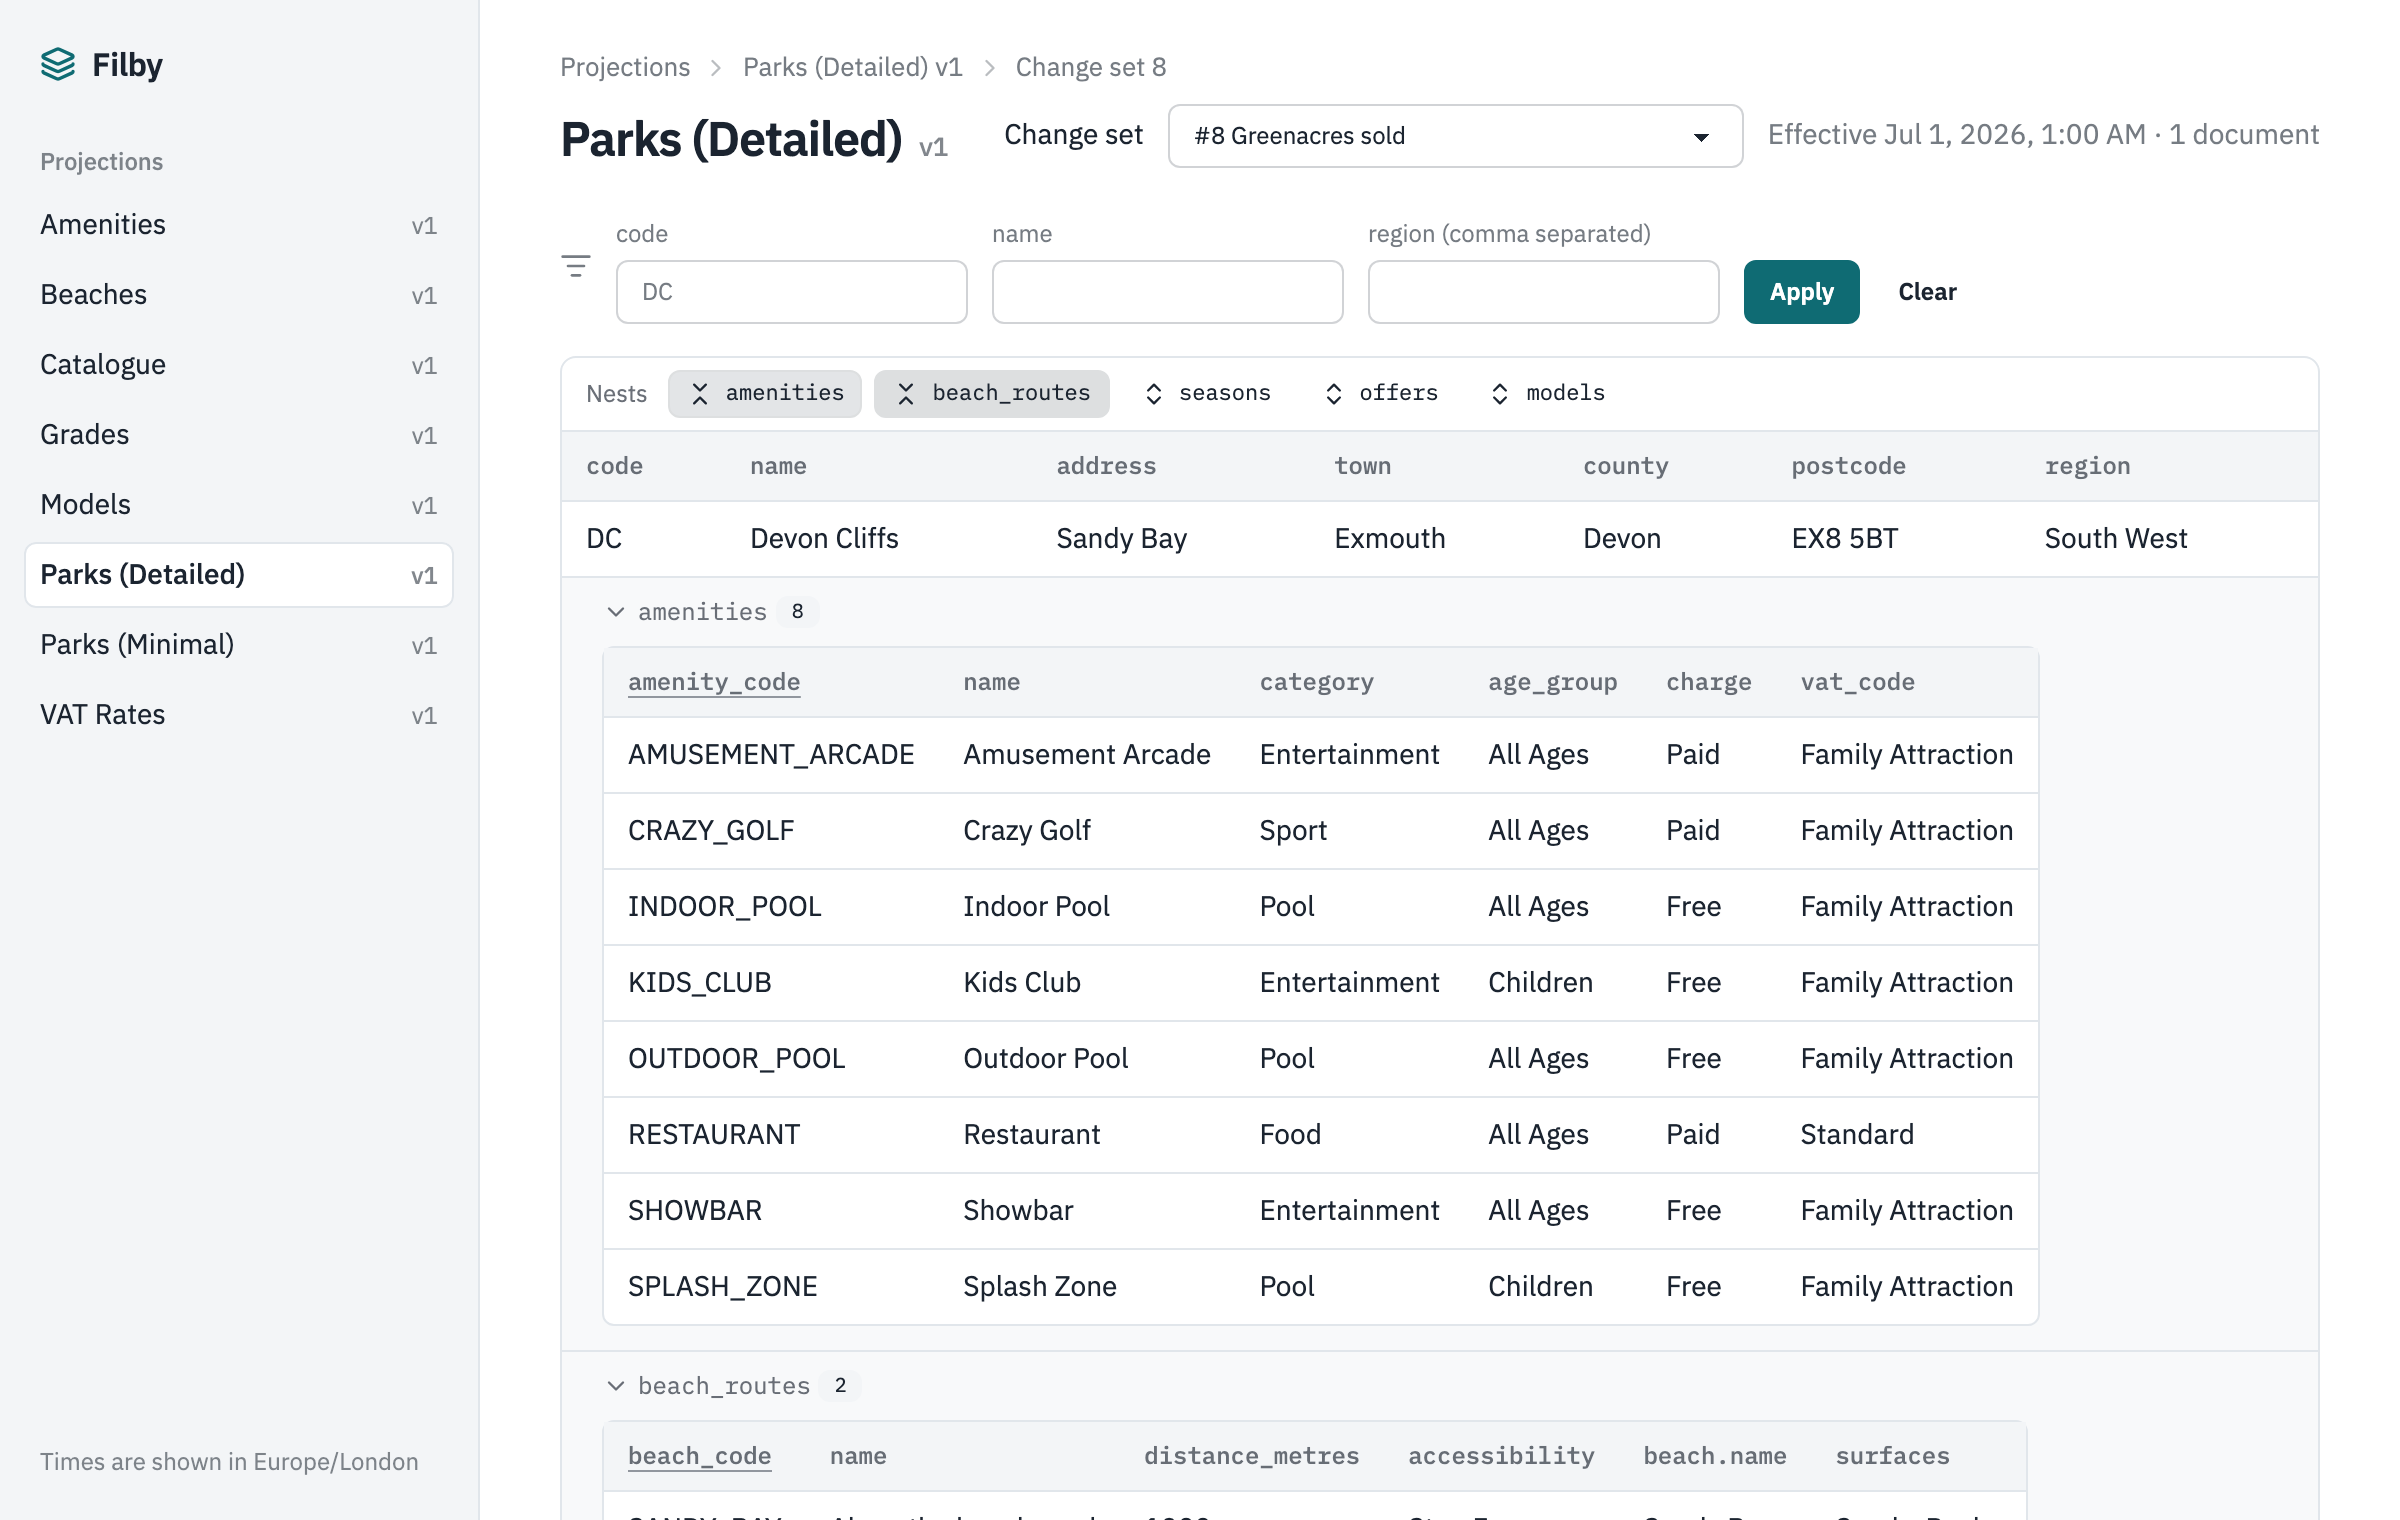
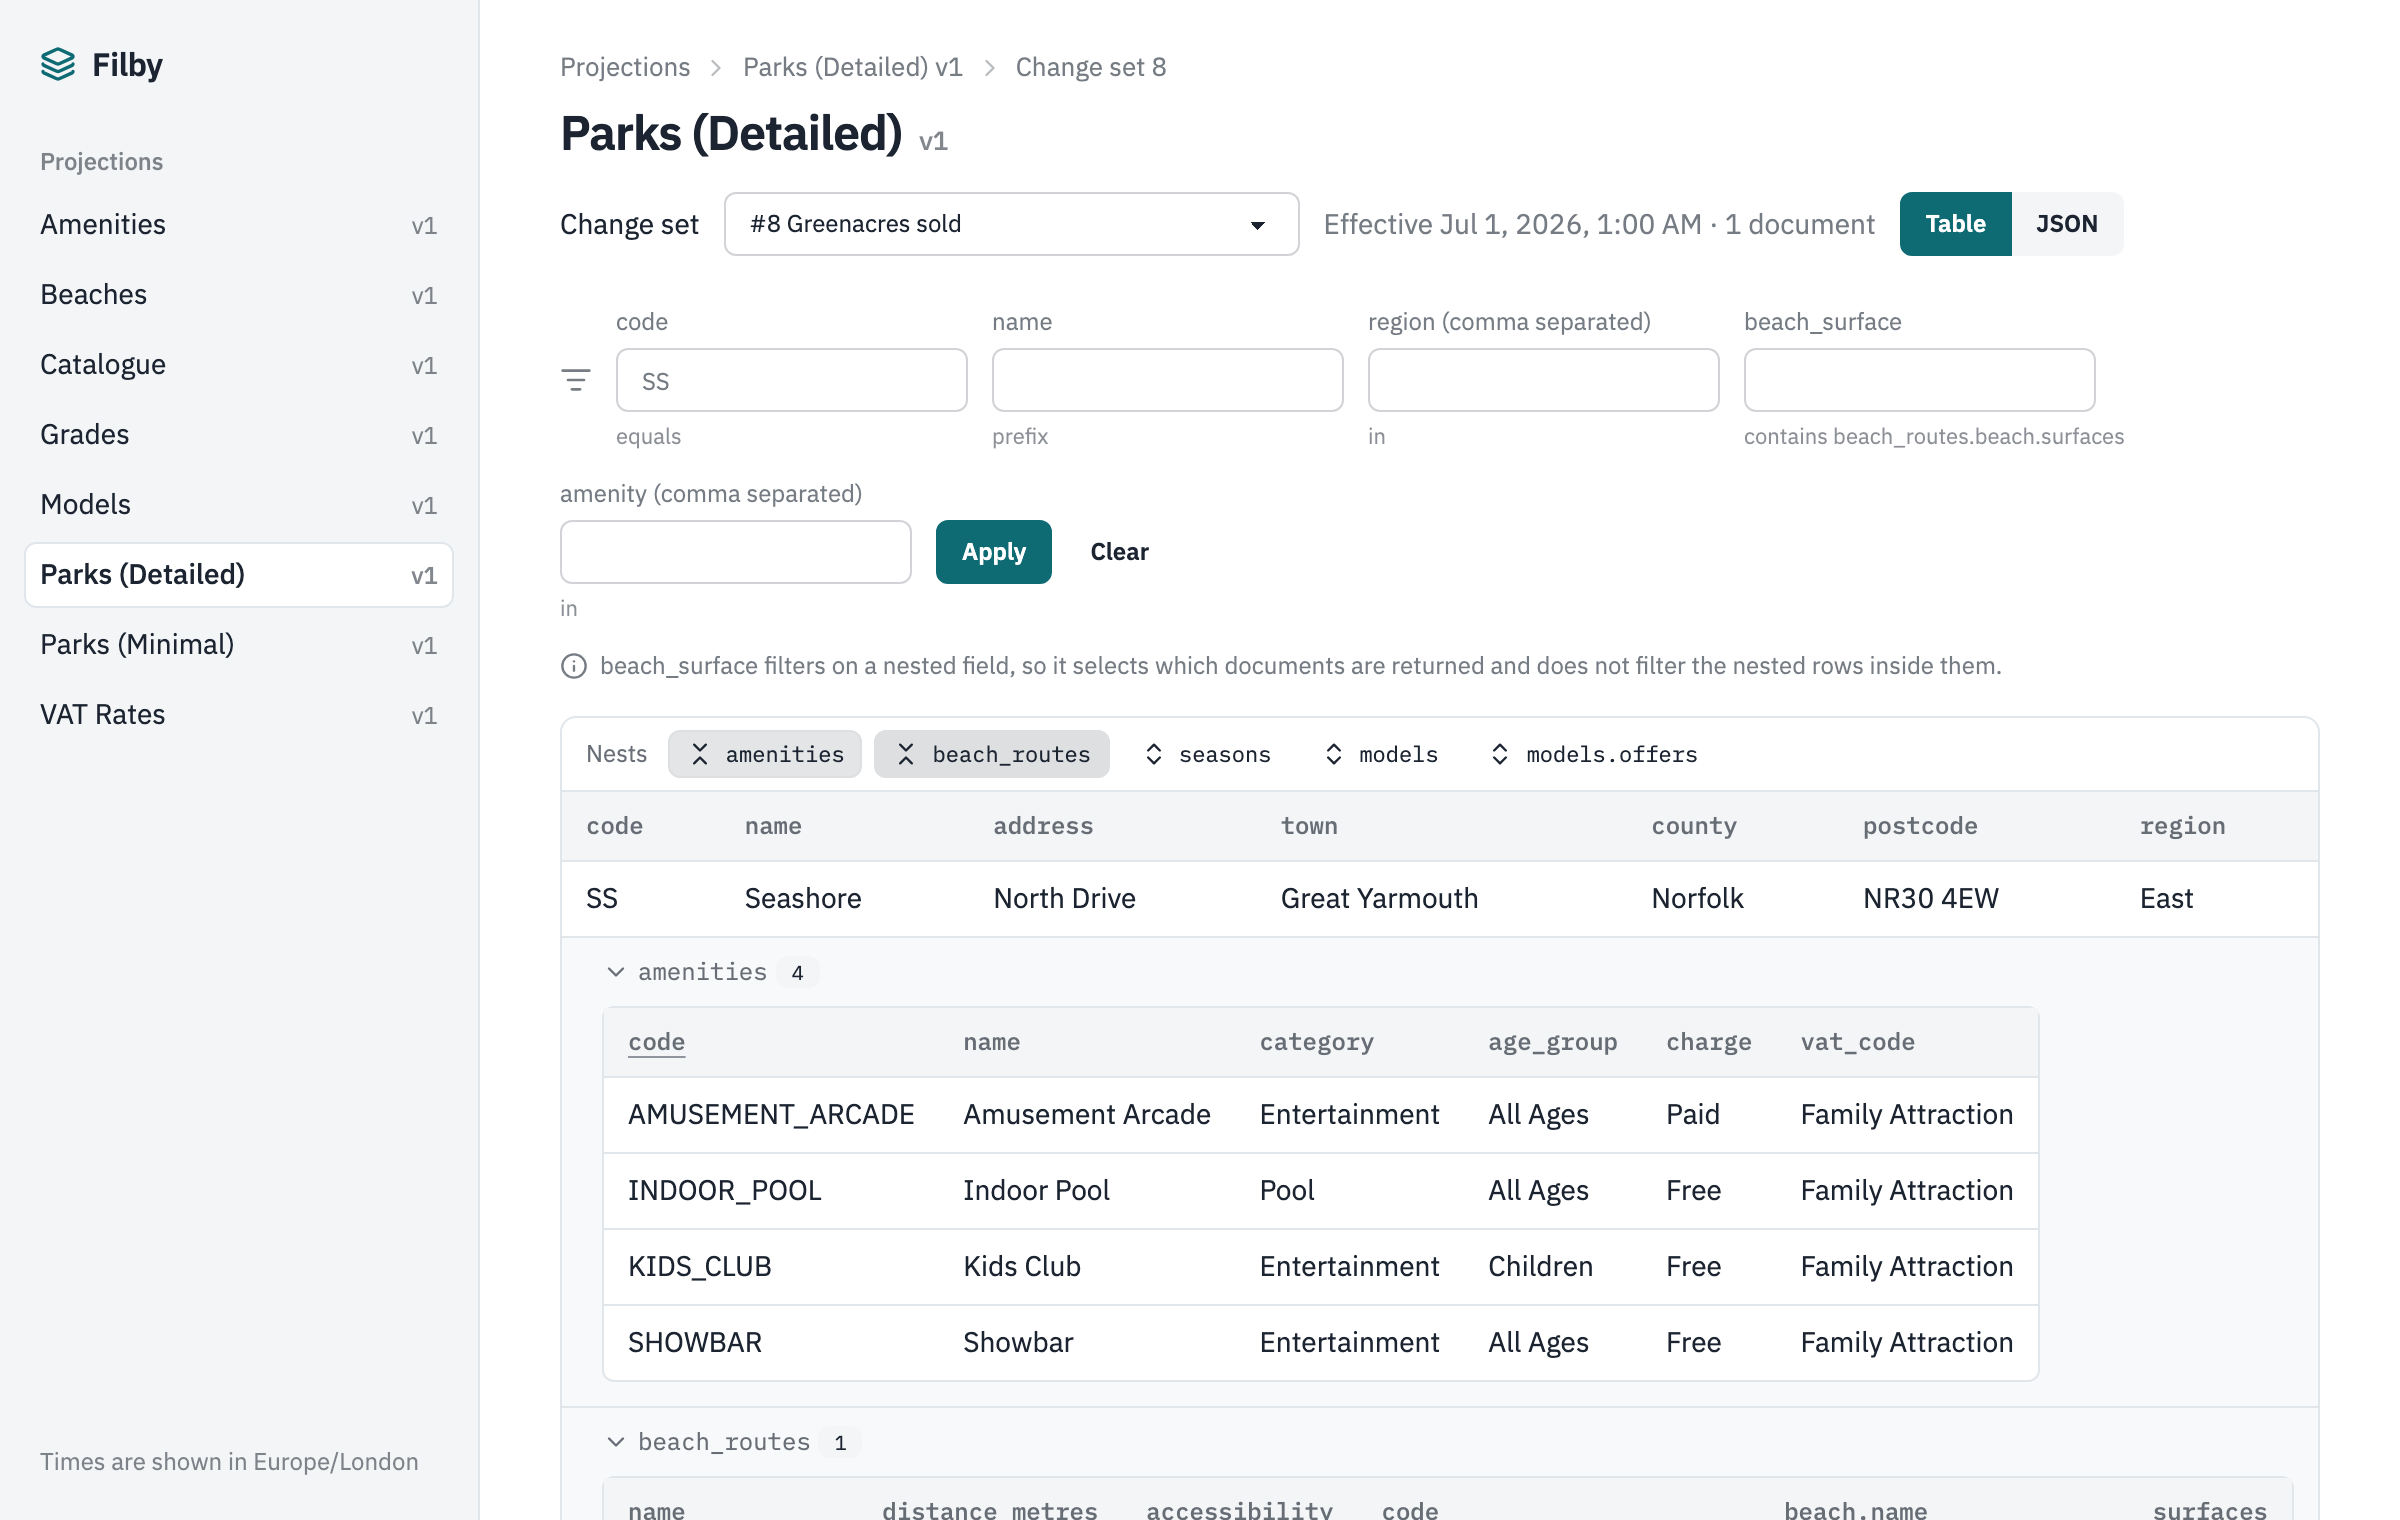
Retake the README screenshots against the Filby 1.0.0 example
The JSON toggle changed the headers of the change sets and documents
screens, the projections screen now labels every parameter with its
match, and the example's data changed: the change log has the 2027
catalogue as not yet live and amenities are link rows that carry only
the amenity lookup. Retake all three at the same size and framing.

The documents screen's filters now take two rows, so Devon Cliffs'
eight amenities push its beach routes out of the frame. Show Seashore,
which has four, so that both nests stay in view, and say so in the alt
text.

Fixes acuminous/filby-ui#10

diff --git a/README.md b/README.md
@@ -42,7 +42,7 @@ Every screen has a sidebar listing the projections, with the one on screen marke
 
 **Documents.** The documents of the projection at the change set from `GET /projections/<name>/v<n>?changeSetId=<id>`, as a table whose columns come from the OpenAPI response schema, with nested arrays rendered as sub-tables under their row to any depth and nulls shown muted. The sub-tables start collapsed, showing the nest's name and row count; one opens on click, a button above the table for each nest expands or collapses every row's, and the choice is remembered per projection in the browser's local storage. A lookup, the single object a document or nested row embeds for a many-to-one relationship, is flattened into the table as columns under their own names, with the column it is joined on underlined (the parent's, or the lookup's own when the projection keeps the join field there) and naming the lookup on hover, a column whose name clashes with another in the row prefixed with the lookup's name, and `null` in each of its columns where there is no record. A picker in the header moves between change sets without leaving the screen. The projection's declared parameters become filters (comma separated values for an `in` match, a from/to pair for a `range`, text for every other match), each captioned with the same label as on the projections screen, that are applied on submit and reflected in the URL, so a view can be linked to. A note under the filters names any parameter on a field inside a nest, because it selects which documents are returned and does not filter the nested rows inside them. Paging uses `page`, `pageSize`, `X-Total-Count` and the `Link` header, with a page size control bounded by the projection's maximum. Escape goes back to the change sets.
 
-![The documents screen showing Devon Cliffs with its amenities and beach routes expanded, each amenity and beach flattened into the row](docs/screenshots/documents.png)
+![The documents screen showing Seashore with its amenities and beach routes expanded, each amenity flattened into its row and the beach columns heading the beach routes](docs/screenshots/documents.png)
 
 **JSON view.** A toggle in the header of the change sets screen (`Timeline` / `JSON`) and the documents screen (`Table` / `JSON`) swaps the view for the response body the screen already fetched, pretty-printed and coloured, under its request URL and with a button to copy it, keeping the documents screen's filters and paging, reflecting the choice in the URL as `?view=json` and remembering it per screen in the browser's local storage.
 
